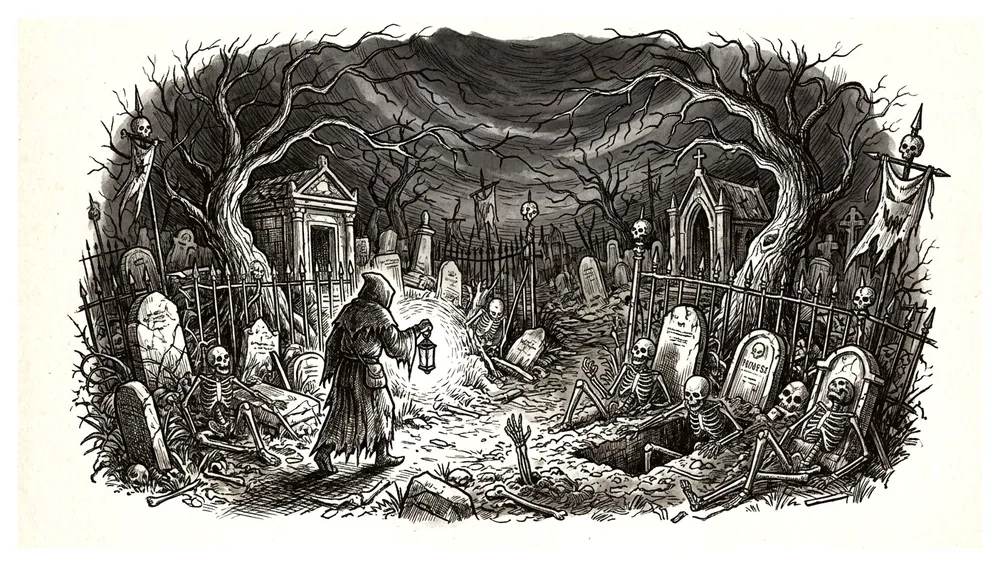
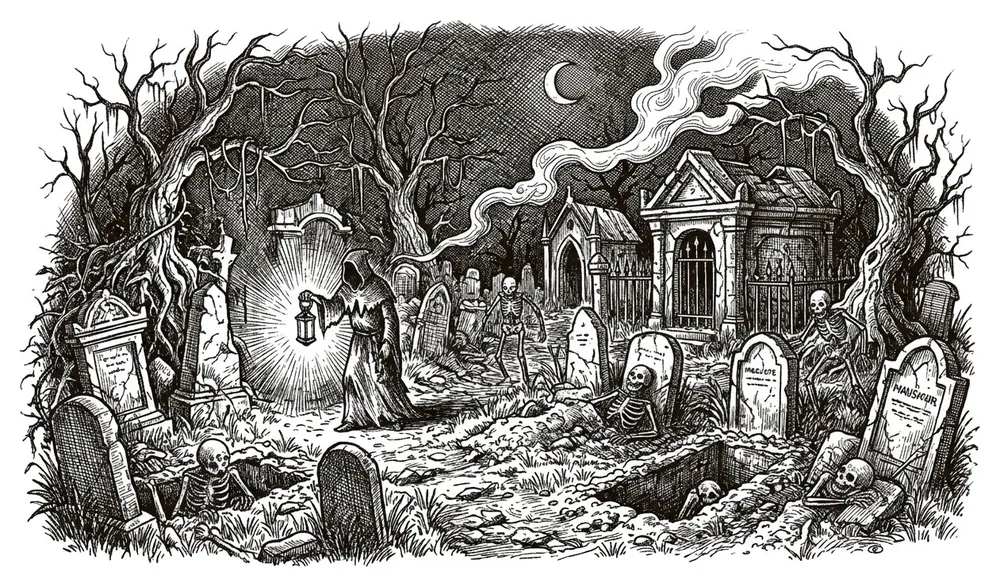
Panneau des missions : une gravure par scène vraiment différente
Tri resserré (Idan : « Faut pas hésiter à les virer ») : un orc, un ogre,
un château maudit, un cimetière ; deux voleurs (le camp vu de loin, le
guetteur de près). Les écartées et leur raison dans build-mission-art.js.

Claude-Session: https://claude.ai/code/session_01EeJJTXzBZEvAnWuDndFYuJ

diff --git a/scripts/build-mission-art.js b/scripts/build-mission-art.js
@@ -23,16 +23,11 @@ const QUALITY=0.8;
 // proches… Faut pas hésiter à les virer »).
 const KEEP=[
   ["Orc_warrior_guarding_war_camp_a9cf545c.jpg","camp-orc-1"],
-  ["Orc_warrior_standing_guard_894f7d18.jpg","camp-orc-2"],
   ["Thief_at_bandit_hideout_6808b4ff.jpg","camp-voleurs-1"],
-  ["Thief_at_bandit_hideout_6f991c2c.jpg","camp-voleurs-2"],
-  ["Thief_in_bandit_hideout_fb6e104f.jpg","camp-voleurs-3"],
+  ["Thief_in_bandit_hideout_fb6e104f.jpg","camp-voleurs-2"],
   ["Ogre_encampment_with_cauldron_an…_9a91bb9a.jpg","camp-ogre-1"],
-  ["Ogre_in_encampment_with_weapons_0c709554.jpg","camp-ogre-2"],
   ["Vampire_silhouette_in_ruined_castle_ccb42c11.jpg","chateau-maudit-1"],
-  ["Vampire_in_ruined_castle_window_d9d4443a.jpg","chateau-maudit-2"],
-  ["Hooded_figure_in_ancient_graveyard_93e85a0f.jpg","cimetiere-profane-1"],
-  ["Hooded_figure_holding_lantern_gr…_1a5d46be.jpg","cimetiere-profane-2"],
+  ["Hooded_figure_holding_lantern_gr…_1a5d46be.jpg","cimetiere-profane-1"],
   ["Pack_of_wolves_howling_aaf26095.jpg","chasse-loups-1"],
   ["Wild_unicorn_rearing_in_forest_cddc5f4f.jpg","chasse-licorne-1"],
   ["Three-headed_hellhound_at_mine_0991b14a.jpg","chasse-cerbere-1"],
@@ -42,12 +37,17 @@ const KEEP=[
 // Écartées : les raisons servent pour la prochaine série.
 const REJECTED={
   "Ogre_encampment_with_cauldron_an…_08bb96c7.jpg":"fond noir tout autour : un rectangle sombre sur l'annonce, l'encre ne se pose plus sur le papier",
-  "Orc_warrior_standing_guard_536c622a.jpg":"trop proche de camp-orc-1 (l'orc à droite, la yourte à gauche, les tambours)",
-  "Thief_guarding_bandit_hideout_39ee5d23.jpg":"trop proche de camp-voleurs-2 (la tour, le voleur accroupi à l'arbalète)",
-  "Ogre_encampment_with_giant_cauldron_d0008d80.jpg":"trop proche de camp-ogre-1 (l'ogre assis près du chaudron)",
-  "Ogre_encampment_with_cauldron_an…_ef1e4da0.jpg":"trop proche de camp-ogre-1 (l'ogre assis près du chaudron)",
-  "Ogre_encampment_with_cauldron_an…_b50c0c65.jpg":"trop proche de camp-ogre-2 (l'ogre debout, la massue)",
+  "Orc_warrior_standing_guard_536c622a.jpg":"trop proche de camp-orc-1 (un orc debout dans le camp de yourtes)",
+  "Orc_warrior_standing_guard_894f7d18.jpg":"trop proche de camp-orc-1 (un orc debout dans le camp de yourtes)",
+  "Thief_at_bandit_hideout_6f991c2c.jpg":"trop proche de camp-voleurs-2 (la tour en ruine, le voleur encapuchonné à l'arbalète)",
+  "Thief_guarding_bandit_hideout_39ee5d23.jpg":"trop proche de camp-voleurs-2 (la tour en ruine, le voleur encapuchonné à l'arbalète)",
+  "Ogre_encampment_with_giant_cauldron_d0008d80.jpg":"trop proche de camp-ogre-1 (l'ogre près du chaudron)",
+  "Ogre_encampment_with_cauldron_an…_ef1e4da0.jpg":"trop proche de camp-ogre-1 (l'ogre près du chaudron)",
+  "Ogre_encampment_with_cauldron_an…_b50c0c65.jpg":"trop proche de camp-ogre-1 (l'ogre près du chaudron)",
+  "Ogre_in_encampment_with_weapons_0c709554.jpg":"trop proche de camp-ogre-1 (l'ogre près du chaudron)",
   "Vampire_at_castle_window_c4c62323.jpg":"trop proche de chateau-maudit-1 (le château sur son rocher, la lune)",
+  "Vampire_in_ruined_castle_window_d9d4443a.jpg":"trop proche de chateau-maudit-1 (le château sur son rocher, la lune)",
+  "Hooded_figure_in_ancient_graveyard_93e85a0f.jpg":"trop proche de cimetiere-profane-1 (le nécromancien à la lanterne entre les tombes)",
   "Cerberus_at_mine_entrance_30035809.jpg":"trop proche de chasse-cerbere-1 (le cerbère à la sortie de la mine)",
   "Cerberus_at_mine_mouth_ed39f50f.jpg":"trop proche de chasse-cerbere-1 (le cerbère à la sortie de la mine)",
   "Feral_mastiffs_snarling_near_manor_c85a0952.jpg":"trop proche de chasse-chiens-sauvages-1 (les molosses devant le château)",

diff --git a/docs/design/17-one-shot-missions.md b/docs/design/17-one-shot-missions.md
@@ -296,8 +296,8 @@ ennemis, récompense, expiration…), la lettre du commanditaire s'il y en a une
   sinon celles de la mission (`missions[].illustrations` : les bêtes des chasses), sinon son illustration. Un camp peut en avoir plusieurs (Idan : « c'est plutôt pas mal
   d'avoir des images différentes pour les mêmes missions ») : chaque offre en tire une d'après son identifiant, toujours
   la même. Idan les dépose dans `media/background/Taverne/Missions/` ; on garde les bonnes (`scripts/build-mission-art.js`,
-  voir `docs/DEPLOYMENT.md`). Arrivées : les sept camps (gobelins 1, hommes-bêtes 1, orcs 2, voleurs 3, ogres 2,
-  cimetière profané 2, château maudit 2) et les bêtes (loups, licorne, cerbère, chiens sauvages, papillons : 1 chacune).
+  voir `docs/DEPLOYMENT.md`). Arrivées : les sept camps (une gravure chacun ; deux pour les voleurs, deux scènes vraiment
+  différentes) et les bêtes (loups, licorne, cerbère, chiens sauvages, papillons : 1 chacune).
   Une variante n'est gardée que si elle apporte une autre image (Idan : « Y'en a beaucoup qui sont proches… Faut pas
   hésiter à les virer ») ; les écartées et leur raison sont en tête de `scripts/build-mission-art.js`. À venir : les clients des gardes du corps.
 
